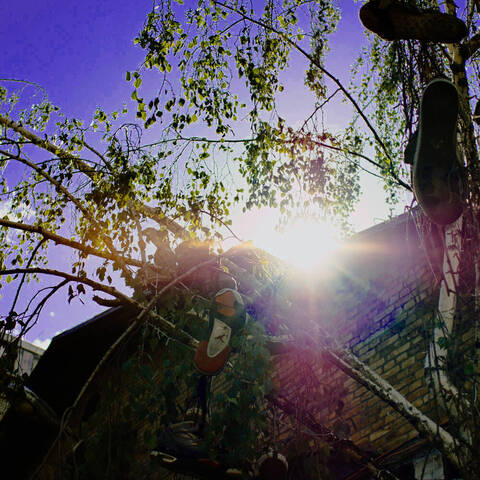
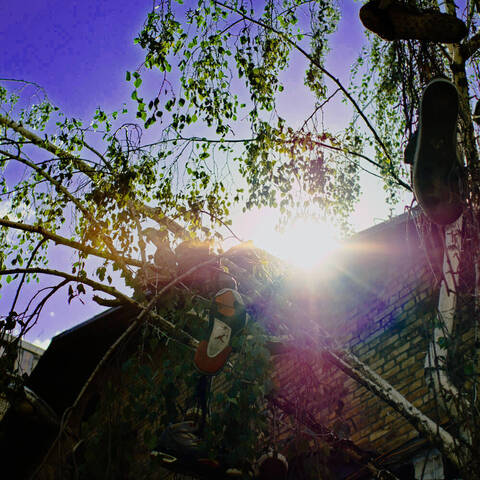
📝 Document smooth and remake the gallery with soft zones
Context: the gallery was made with the zones of the colour effects
judged pixel by pixel, and the options listed under the pictures did
not know the smooth parameter.

Why: the options of one point colour, false colour and remap now list
smooth with what it does, and the pictures that use a zone, the one
point colour, the false colour of the sky and the remap, are made again
with it.

Alternatives considered: leaving the gallery as it was, which would show
the specks and hard edges the parameter removes.

diff --git a/README.md b/README.md
@@ -15,9 +15,9 @@ Every picture is the same photo, cropped to a square, with one effect, its recip
 <tr><td width="33%" align="center" valign="top"><img src="docs/examples/tritone.jpg" width="100%"><br><b>tritone</b><br><code>tritone</code><details><summary>options</summary><div align="left"><code>dark=14052b</code> ink of the shadows<br><code>mid=e0204f</code> ink of the mid tones<br><code>light=ffd9a0</code> ink of the lights<br><code>mix=100</code> how much of the print shows, 0 to 100<br></div></details></td><td width="33%" align="center" valign="top"><img src="docs/examples/scanlines.jpg" width="100%"><br><b>scanlines</b><br><code>scanlines</code><details><summary>options</summary><div align="left"><code>period=4</code> rows from one line to the next<br><code>thickness=1</code> rows a line is thick<br><code>strength=60</code> how dark the lines are, 0 to 100<br></div></details></td><td width="33%" align="center" valign="top"><img src="docs/examples/drag.jpg" width="100%"><br><b>drag, a flash over a slow shutter</b><br><code>drag</code><details><summary>options</summary><div align="left"><code>kind=motion</code> motion or zoom<br><code>length=60</code> how far the smear goes, in pixels<br><code>angle=0</code> direction in degrees, 90 is down<br><code>mix=70</code> how much of the smear shows, 0 to 100<br><code>blend=lighten</code> lighten, screen or normal<br></div></details></td></tr>
 <tr><td width="33%" align="center" valign="top"><img src="docs/examples/drag-zoom.jpg" width="100%"><br><b>drag, zooming</b><br><code>drag kind=zoom</code><details><summary>options</summary><div align="left"><code>kind=motion</code> motion or zoom<br><code>length=60</code> how far the smear goes, in pixels<br><code>angle=0</code> direction in degrees, 90 is down<br><code>mix=70</code> how much of the smear shows, 0 to 100<br><code>blend=lighten</code> lighten, screen or normal<br></div></details></td><td width="33%" align="center" valign="top"><img src="docs/examples/aberration.jpg" width="100%"><br><b>chromatic aberration</b><br><code>aberration</code><details><summary>options</summary><div align="left"><code>amount=0.006</code> how much larger the red is drawn than the green; 0.01 is already strong<br></div></details></td><td width="33%" align="center" valign="top"><img src="docs/examples/grain.jpg" width="100%"><br><b>film grain</b><br><code>grain</code><details><summary>options</summary><div align="left"><code>strength=30</code> 0 to 100<br><code>size=2</code> size of a grain, in pixels<br><code>color=false</code> grain that colours the picture, or only lightens and darkens it<br></div></details></td></tr>
 <tr><td width="33%" align="center" valign="top"><img src="docs/examples/fade.jpg" width="100%"><br><b>faded print</b><br><code>fade</code><details><summary>options</summary><div align="left"><code>lift=12</code> how far the blacks are lifted, 0 to 100<br><code>saturation=80</code> 100 leaves the colour, 0 takes it out, 200 doubles it<br><code>tint=ff8c42</code> colour the picture leans towards<br><code>tint_amount=10</code> how much, 0 to 100<br></div></details></td><td width="33%" align="center" valign="top"><img src="docs/examples/vignette.jpg" width="100%"><br><b>vignette</b><br><code>vignette</code><details><summary>options</summary><div align="left"><code>strength=50</code> how dark the corners get, 0 to 100<br><code>start=40</code> where the darkening starts, 0 to 100 from the centre to the corners<br></div></details></td><td width="33%" align="center" valign="top"><img src="docs/examples/leak.jpg" width="100%"><br><b>light leak</b><br><code>leak</code><details><summary>options</summary><div align="left"><code>color=ff963c</code> colour of the light<br><code>strength=70</code> 0 to 100<br><code>size=50</code> how far it reaches, 0 to 100 of the width<br></div></details></td></tr>
-<tr><td width="33%" align="center" valign="top"><img src="docs/examples/bloom.jpg" width="100%"><br><b>bloom</b><br><code>bloom</code><details><summary>options</summary><div align="left"><code>threshold=200</code> brightness, 0 to 255, above which a light glows<br><code>radius=30</code> how far the glow spreads, in pixels<br><code>strength=60</code> how bright the glow is, 0 to 100<br></div></details></td><td width="33%" align="center" valign="top"><img src="docs/examples/liquid.jpg" width="100%"><br><b>liquid distortion</b><br><code>liquid</code><details><summary>options</summary><div align="left"><code>amplitude=40</code> how far a pixel can be pushed, in pixels<br><code>scale=150</code> size of the waves<br><code>octaves=2</code> layers of finer waves; 1 is smooth, 3 is choppy<br><code>drift=0</code> how far the waves have drifted, to animate<br></div></details></td><td width="33%" align="center" valign="top"><img src="docs/examples/falsecolor.jpg" width="100%"><br><b>false colour (red and blue swapped)</b><br><code>falsecolor</code><details><summary>options</summary><div align="left"><code>order=bgr</code> where each channel comes from: rgb, gbr, brg…<br><code>invert=none</code> channels turned negative: r, g, b, rb… or none<br><code>rotate=0</code> turn the hues, -180 to 180 degrees<br><code>saturation=100</code> 0 takes the colour out, 200 doubles it, up to 400<br><code>only=none</code> move only this hue (name, degrees or hex); none moves all<br><code>width=30</code> degrees either side of <code>only</code> moved whole<br><code>soft=30</code> degrees over which the move fades<br><code>mix=100</code> how much of the result shows, 0 to 100<br></div></details></td></tr>
-<tr><td width="33%" align="center" valign="top"><img src="docs/examples/falsecolor-rotate.jpg" width="100%"><br><b>false colour, hues turned</b><br><code>falsecolor order=rgb rotate=120</code><details><summary>options</summary><div align="left"><code>order=bgr</code> where each channel comes from: rgb, gbr, brg…<br><code>invert=none</code> channels turned negative: r, g, b, rb… or none<br><code>rotate=0</code> turn the hues, -180 to 180 degrees<br><code>saturation=100</code> 0 takes the colour out, 200 doubles it, up to 400<br><code>only=none</code> move only this hue (name, degrees or hex); none moves all<br><code>width=30</code> degrees either side of <code>only</code> moved whole<br><code>soft=30</code> degrees over which the move fades<br><code>mix=100</code> how much of the result shows, 0 to 100<br></div></details></td><td width="33%" align="center" valign="top"><img src="docs/examples/onepoint.jpg" width="100%"><br><b>one point colour</b><br><code>onepoint hue=80deg width=35 soft=30 rest=0</code><details><summary>options</summary><div align="left"><code>hue=0deg</code> the colour kept: a name, degrees or hex<br><code>width=30</code> degrees either side of it kept whole<br><code>soft=30</code> degrees over which the colour fades to grey<br><code>rest=0</code> how much colour the rest keeps, 0 to 100<br><code>at=none</code> <code>x,y</code> in percent: take the hue from this point of the picture<br></div></details></td><td width="33%" align="center" valign="top"><img src="docs/examples/falsecolor-sky.jpg" width="100%"><br><b>false colour, only the sky</b><br><code>falsecolor order=rgb rotate=45 saturation=200 only=blue width=25 soft=25</code><details><summary>options</summary><div align="left"><code>order=bgr</code> where each channel comes from: rgb, gbr, brg…<br><code>invert=none</code> channels turned negative: r, g, b, rb… or none<br><code>rotate=0</code> turn the hues, -180 to 180 degrees<br><code>saturation=100</code> 0 takes the colour out, 200 doubles it, up to 400<br><code>only=none</code> move only this hue (name, degrees or hex); none moves all<br><code>width=30</code> degrees either side of <code>only</code> moved whole<br><code>soft=30</code> degrees over which the move fades<br><code>mix=100</code> how much of the result shows, 0 to 100<br></div></details></td></tr>
-<tr><td width="33%" align="center" valign="top"><img src="docs/examples/remap.jpg" width="100%"><br><b>remap, a hue sent elsewhere</b><br><code>remap map=blue:orange,green:red saturation=130</code><details><summary>options</summary><div align="left"><code>map=none</code> pairs <code>from:to</code>, such as <code>blue:orange,green:red</code>; up to 8<br><code>width=25</code> degrees either side of a hue moved whole<br><code>soft=25</code> degrees over which the move fades<br><code>saturation=100</code> strength of the moved colours, 0 to 400<br><code>mix=100</code> how much of the result shows, 0 to 100<br></div></details></td><td width="33%" align="center" valign="top"><img src="docs/examples/spin.jpg" width="100%"><br><b>spin, a turning smear</b><br><code>spin angle=14</code><details><summary>options</summary><div align="left"><code>angle=10</code> how far it turns, in degrees<br><code>center=50,50</code> centre of the turn, in percent of width,height<br><code>steps=0</code> positions blended; 0 takes as many as needed, 5 gives ghosts<br><code>mix=100</code> how much of the smear shows, 0 to 100<br></div></details></td><td width="33%" align="center" valign="top"><img src="docs/examples/spin-ghosts.jpg" width="100%"><br><b>spin, a few ghosts</b><br><code>spin angle=24 steps=5 center=30,60</code><details><summary>options</summary><div align="left"><code>angle=10</code> how far it turns, in degrees<br><code>center=50,50</code> centre of the turn, in percent of width,height<br><code>steps=0</code> positions blended; 0 takes as many as needed, 5 gives ghosts<br><code>mix=100</code> how much of the smear shows, 0 to 100<br></div></details></td></tr>
+<tr><td width="33%" align="center" valign="top"><img src="docs/examples/bloom.jpg" width="100%"><br><b>bloom</b><br><code>bloom</code><details><summary>options</summary><div align="left"><code>threshold=200</code> brightness, 0 to 255, above which a light glows<br><code>radius=30</code> how far the glow spreads, in pixels<br><code>strength=60</code> how bright the glow is, 0 to 100<br></div></details></td><td width="33%" align="center" valign="top"><img src="docs/examples/liquid.jpg" width="100%"><br><b>liquid distortion</b><br><code>liquid</code><details><summary>options</summary><div align="left"><code>amplitude=40</code> how far a pixel can be pushed, in pixels<br><code>scale=150</code> size of the waves<br><code>octaves=2</code> layers of finer waves; 1 is smooth, 3 is choppy<br><code>drift=0</code> how far the waves have drifted, to animate<br></div></details></td><td width="33%" align="center" valign="top"><img src="docs/examples/falsecolor.jpg" width="100%"><br><b>false colour (red and blue swapped)</b><br><code>falsecolor</code><details><summary>options</summary><div align="left"><code>order=bgr</code> where each channel comes from: rgb, gbr, brg…<br><code>invert=none</code> channels turned negative: r, g, b, rb… or none<br><code>rotate=0</code> turn the hues, -180 to 180 degrees<br><code>saturation=100</code> 0 takes the colour out, 200 doubles it, up to 400<br><code>only=none</code> move only this hue (name, degrees or hex); none moves all<br><code>width=30</code> degrees either side of <code>only</code> moved whole<br><code>soft=30</code> degrees over which the move fades<br><code>smooth=1</code> how soft the edge of a zone is, in percent of the long side of the picture; the zone is judged on a blurred small copy, so the edge is not a line and a speck of another colour inside it is moved with the rest; 0 judges each pixel alone<br><code>mix=100</code> how much of the result shows, 0 to 100<br></div></details></td></tr>
+<tr><td width="33%" align="center" valign="top"><img src="docs/examples/falsecolor-rotate.jpg" width="100%"><br><b>false colour, hues turned</b><br><code>falsecolor order=rgb rotate=120</code><details><summary>options</summary><div align="left"><code>order=bgr</code> where each channel comes from: rgb, gbr, brg…<br><code>invert=none</code> channels turned negative: r, g, b, rb… or none<br><code>rotate=0</code> turn the hues, -180 to 180 degrees<br><code>saturation=100</code> 0 takes the colour out, 200 doubles it, up to 400<br><code>only=none</code> move only this hue (name, degrees or hex); none moves all<br><code>width=30</code> degrees either side of <code>only</code> moved whole<br><code>soft=30</code> degrees over which the move fades<br><code>smooth=1</code> how soft the edge of a zone is, in percent of the long side of the picture; the zone is judged on a blurred small copy, so the edge is not a line and a speck of another colour inside it is moved with the rest; 0 judges each pixel alone<br><code>mix=100</code> how much of the result shows, 0 to 100<br></div></details></td><td width="33%" align="center" valign="top"><img src="docs/examples/onepoint.jpg" width="100%"><br><b>one point colour</b><br><code>onepoint hue=80deg width=35 soft=30 rest=0</code><details><summary>options</summary><div align="left"><code>hue=0deg</code> the colour kept: a name, degrees or hex<br><code>width=30</code> degrees either side of it kept whole<br><code>soft=30</code> degrees over which the colour fades to grey<br><code>rest=0</code> how much colour the rest keeps, 0 to 100<br><code>at=none</code> <code>x,y</code> in percent: take the hue from this point of the picture<br><code>smooth=1</code> how soft the edge of the kept zone is, in percent of the long side of the picture; a speck of another colour inside it is kept with the rest; 0 judges each pixel alone<br></div></details></td><td width="33%" align="center" valign="top"><img src="docs/examples/falsecolor-sky.jpg" width="100%"><br><b>false colour, only the sky</b><br><code>falsecolor order=rgb rotate=45 saturation=200 only=blue width=25 soft=25</code><details><summary>options</summary><div align="left"><code>order=bgr</code> where each channel comes from: rgb, gbr, brg…<br><code>invert=none</code> channels turned negative: r, g, b, rb… or none<br><code>rotate=0</code> turn the hues, -180 to 180 degrees<br><code>saturation=100</code> 0 takes the colour out, 200 doubles it, up to 400<br><code>only=none</code> move only this hue (name, degrees or hex); none moves all<br><code>width=30</code> degrees either side of <code>only</code> moved whole<br><code>soft=30</code> degrees over which the move fades<br><code>smooth=1</code> how soft the edge of a zone is, in percent of the long side of the picture; the zone is judged on a blurred small copy, so the edge is not a line and a speck of another colour inside it is moved with the rest; 0 judges each pixel alone<br><code>mix=100</code> how much of the result shows, 0 to 100<br></div></details></td></tr>
+<tr><td width="33%" align="center" valign="top"><img src="docs/examples/remap.jpg" width="100%"><br><b>remap, a hue sent elsewhere</b><br><code>remap map=blue:orange,green:red saturation=130</code><details><summary>options</summary><div align="left"><code>map=none</code> pairs <code>from:to</code>, such as <code>blue:orange,green:red</code>; up to 8<br><code>width=25</code> degrees either side of a hue moved whole<br><code>soft=25</code> degrees over which the move fades<br><code>smooth=1</code> how soft the edge of a zone is, in percent of the long side of the picture; the zone is judged on a blurred small copy, so the edge is not a line and a speck of another colour inside it is moved with the rest; 0 judges each pixel alone<br><code>saturation=100</code> strength of the moved colours, 0 to 400<br><code>mix=100</code> how much of the result shows, 0 to 100<br></div></details></td><td width="33%" align="center" valign="top"><img src="docs/examples/spin.jpg" width="100%"><br><b>spin, a turning smear</b><br><code>spin angle=14</code><details><summary>options</summary><div align="left"><code>angle=10</code> how far it turns, in degrees<br><code>center=50,50</code> centre of the turn, in percent of width,height<br><code>steps=0</code> positions blended; 0 takes as many as needed, 5 gives ghosts<br><code>mix=100</code> how much of the smear shows, 0 to 100<br></div></details></td><td width="33%" align="center" valign="top"><img src="docs/examples/spin-ghosts.jpg" width="100%"><br><b>spin, a few ghosts</b><br><code>spin angle=24 steps=5 center=30,60</code><details><summary>options</summary><div align="left"><code>angle=10</code> how far it turns, in degrees<br><code>center=50,50</code> centre of the turn, in percent of width,height<br><code>steps=0</code> positions blended; 0 takes as many as needed, 5 gives ghosts<br><code>mix=100</code> how much of the smear shows, 0 to 100<br></div></details></td></tr>
 <tr><td width="33%" align="center" valign="top"><img src="docs/examples/chain.jpg" width="100%"><br><b>three effects in a row</b><br><code>sort low=40 high=220 + slice slices=12 split=true + grain</code><details><summary>options</summary><div align="left">effects joined by <code>+</code> run in order, each with its own options<br></div></details></td><td width="33%"></td><td width="33%"></td></tr>
 </table>
 
